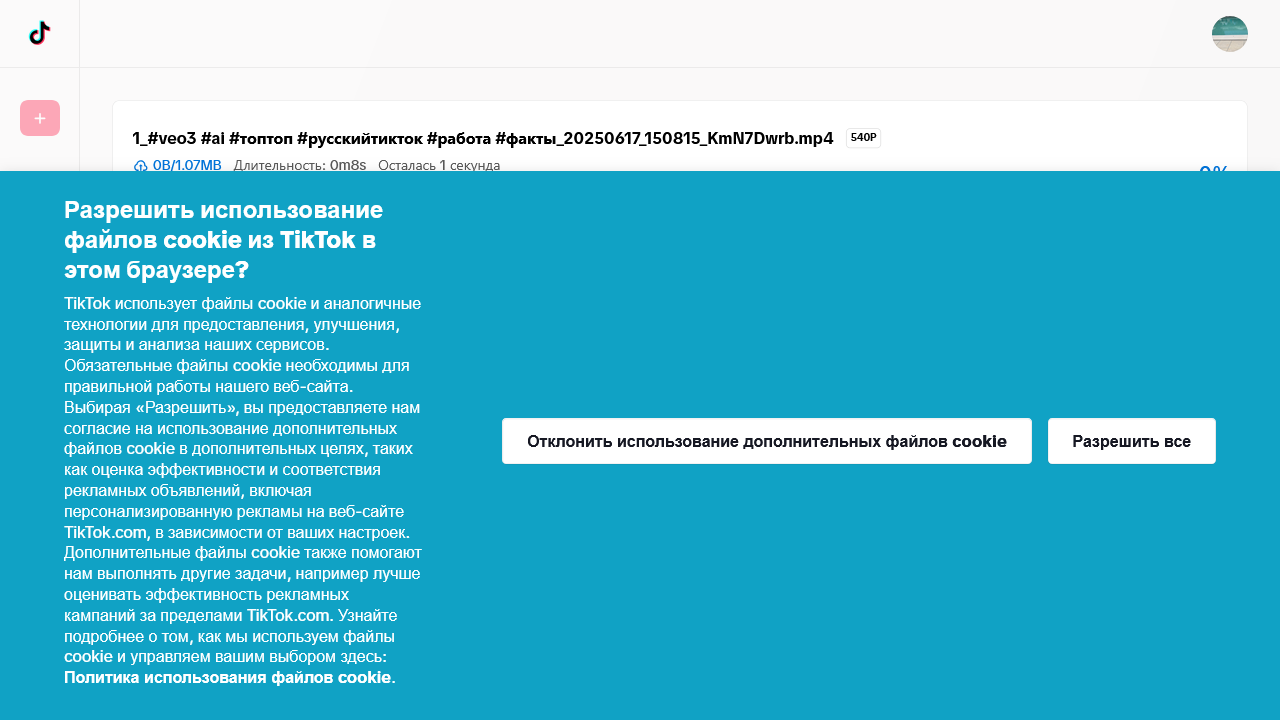
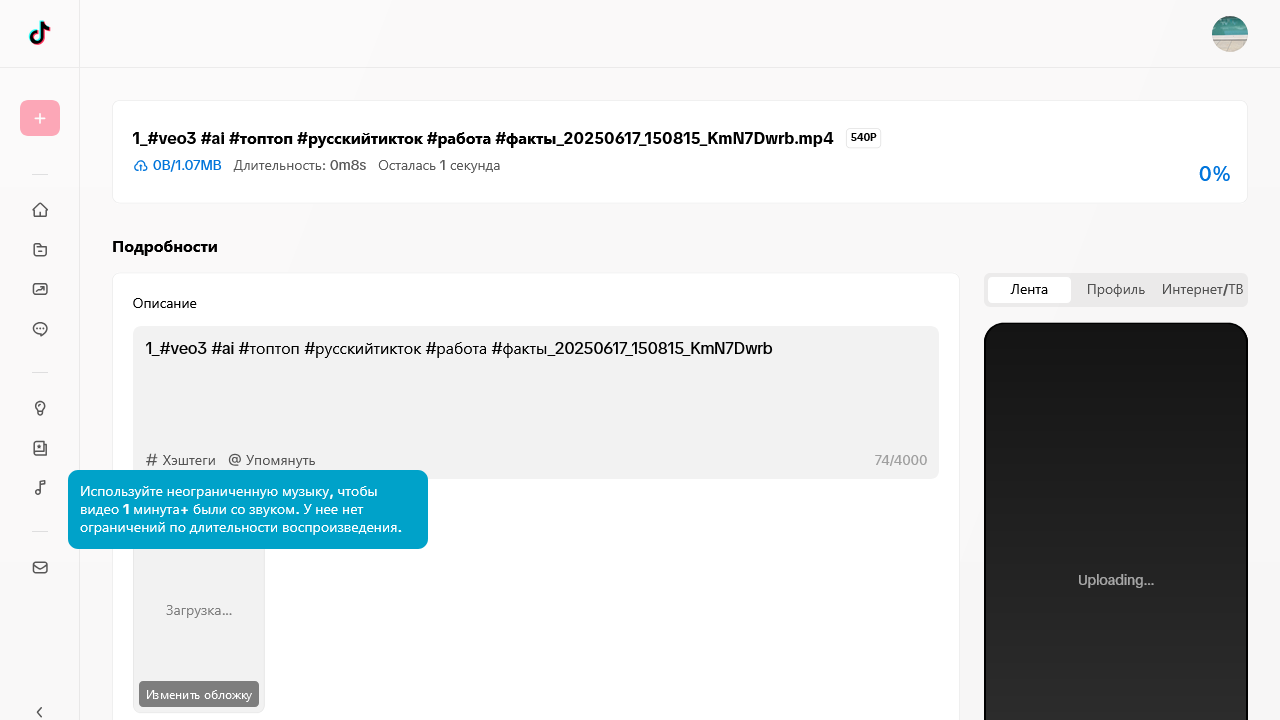
Add cookie consent handling in TikTokManager; update related images for authentication and upload pages. робоче

diff --git a/tiktok_manager.py b/tiktok_manager.py
@@ -53,6 +53,9 @@ class TikTokManager:
             bool: True, если загрузка запущена успешно, False в случае ошибки
         """
         try:
+            # Проверяем и обрабатываем окно согласия на cookie, если оно появилось
+            await self.handle_cookie_consent(page)
+            
             # Найдем input для загрузки файла
             file_input = await page.query_selector('input[type="file"]')
             
@@ -259,6 +262,9 @@ class TikTokManager:
                 await page.goto("https://tiktok.com", wait_until='load')
                 await page.wait_for_timeout(5000)  # Ждем 5 секунд для загрузки страницы
                 
+                # Обрабатываем диалог согласия на cookie на главной странице
+                await self.handle_cookie_consent(page)
+                
                 # Проверяем, авторизованы ли мы
                 is_authenticated = await self.check_authentication(page)
                 
@@ -266,6 +272,9 @@ class TikTokManager:
                     # Переходим на страницу загрузки
                     await page.goto("https://www.tiktok.com/tiktokstudio/upload", wait_until='load')
                     await page.wait_for_timeout(5000)  # Ждем 5 секунд для загрузки страницы
+                    
+                    # Обрабатываем диалог согласия на cookie на странице загрузки
+                    await self.handle_cookie_consent(page)
                     
                     # Делаем скриншот страницы загрузки
                     await page.screenshot(path="tiktok_upload_page.png")
@@ -333,4 +342,93 @@ class TikTokManager:
             
         except Exception as e:
             print(f"Ошибка при проверке авторизации: {str(e)}")
+            return False
+    
+    async def handle_cookie_consent(self, page):
+        """Обрабатывает диалоговое окно с согласием на использование cookie, если оно появилось"""
+        try:
+            print("Проверяем наличие диалога согласия на cookie...")
+            
+            # Пытаемся найти диалоговое окно с кнопками согласия на cookie
+            # Способ 1: Ищем по классу обертки кнопок
+            cookie_dialog = await page.query_selector('div.button-wrapper.special-button-wrapper')
+            
+            if cookie_dialog:
+                print("Найдено окно согласия на cookie (по классу обертки)")
+                
+                # Пытаемся найти любую из кнопок согласия или отказа
+                # Так как язык может отличаться, ищем все кнопки внутри специальной обертки
+                consent_buttons = await cookie_dialog.query_selector_all('button')
+                
+                if consent_buttons and len(consent_buttons) > 0:
+                    # Нажимаем на последнюю кнопку (обычно это кнопка согласия)
+                    button_to_click = consent_buttons[-1]  # Берем последнюю кнопку (обычно это "Разрешить все")
+                    
+                    # Получаем текст кнопки для лога
+                    button_text = await button_to_click.inner_text()
+                    print(f"Нажимаем на кнопку с текстом: '{button_text}'")
+                    
+                    await button_to_click.click()
+                    print("Кнопка в окне согласия на cookie нажата")
+                    
+                    # Даем время на обработку нажатия
+                    await page.wait_for_timeout(2000)
+                    return True
+            
+            # Способ 2: Ищем кнопки по содержимому текста, связанного с cookie
+            possible_buttons = await page.query_selector_all('button:has-text("cookie"), button:has-text("Cookie"), button:has-text("Accept"), button:has-text("Принять"), button:has-text("Allow"), button:has-text("Разрешить"), button:has-text("Agree"), button:has-text("Consent"), button:has-text("OK")')
+            
+            if possible_buttons and len(possible_buttons) > 0:
+                print("Найдена кнопка согласия на cookie (по тексту)")
+                button_to_click = possible_buttons[0]
+                button_text = await button_to_click.inner_text()
+                print(f"Нажимаем на кнопку с текстом: '{button_text}'")
+                
+                await button_to_click.click()
+                print("Кнопка согласия на cookie нажата")
+                
+                await page.wait_for_timeout(2000)
+                return True
+                
+            # Способ 3: Ищем элементы с data-атрибутами, которые часто используются в диалогах cookie
+            cookie_elements = await page.query_selector_all('[data-cookiebanner], [data-testid*="cookie"], [id*="cookie"], [id*="consent"], [class*="consent"], [class*="cookie"]')
+            
+            if cookie_elements and len(cookie_elements) > 0:
+                print("Найден элемент диалога cookie (по data-атрибутам)")
+                
+                # Ищем внутри этих элементов кнопки
+                for element in cookie_elements:
+                    buttons = await element.query_selector_all('button')
+                    if buttons and len(buttons) > 0:
+                        # Предпочтительно нажать на кнопку согласия (обычно это последняя кнопка)
+                        button_to_click = buttons[-1]
+                        button_text = await button_to_click.inner_text()
+                        print(f"Нажимаем на кнопку с текстом: '{button_text}'")
+                        
+                        await button_to_click.click()
+                        print("Кнопка в окне согласия на cookie нажата")
+                        
+                        await page.wait_for_timeout(2000)
+                        return True
+            
+            # Способ 4: Проверка конкретно для TikTok (если у них есть специфичный формат)
+            tiktok_consent_button = await page.query_selector('[data-e2e*="cookie-banner"] button, [data-e2e*="accept"] button')
+            
+            if tiktok_consent_button:
+                print("Найдена кнопка согласия на cookie (специфичная для TikTok)")
+                button_text = await tiktok_consent_button.inner_text()
+                print(f"Нажимаем на кнопку с текстом: '{button_text}'")
+                
+                await tiktok_consent_button.click()
+                print("Кнопка согласия на cookie TikTok нажата")
+                
+                await page.wait_for_timeout(2000)
+                return True
+            
+            print("Окно согласия на cookie не найдено или уже обработано")
+            return False
+            
+        except Exception as e:
+            print(f"Ошибка при обработке диалога согласия на cookie: {str(e)}")
+            await page.screenshot(path="cookie_consent_error.png")
             return False 
